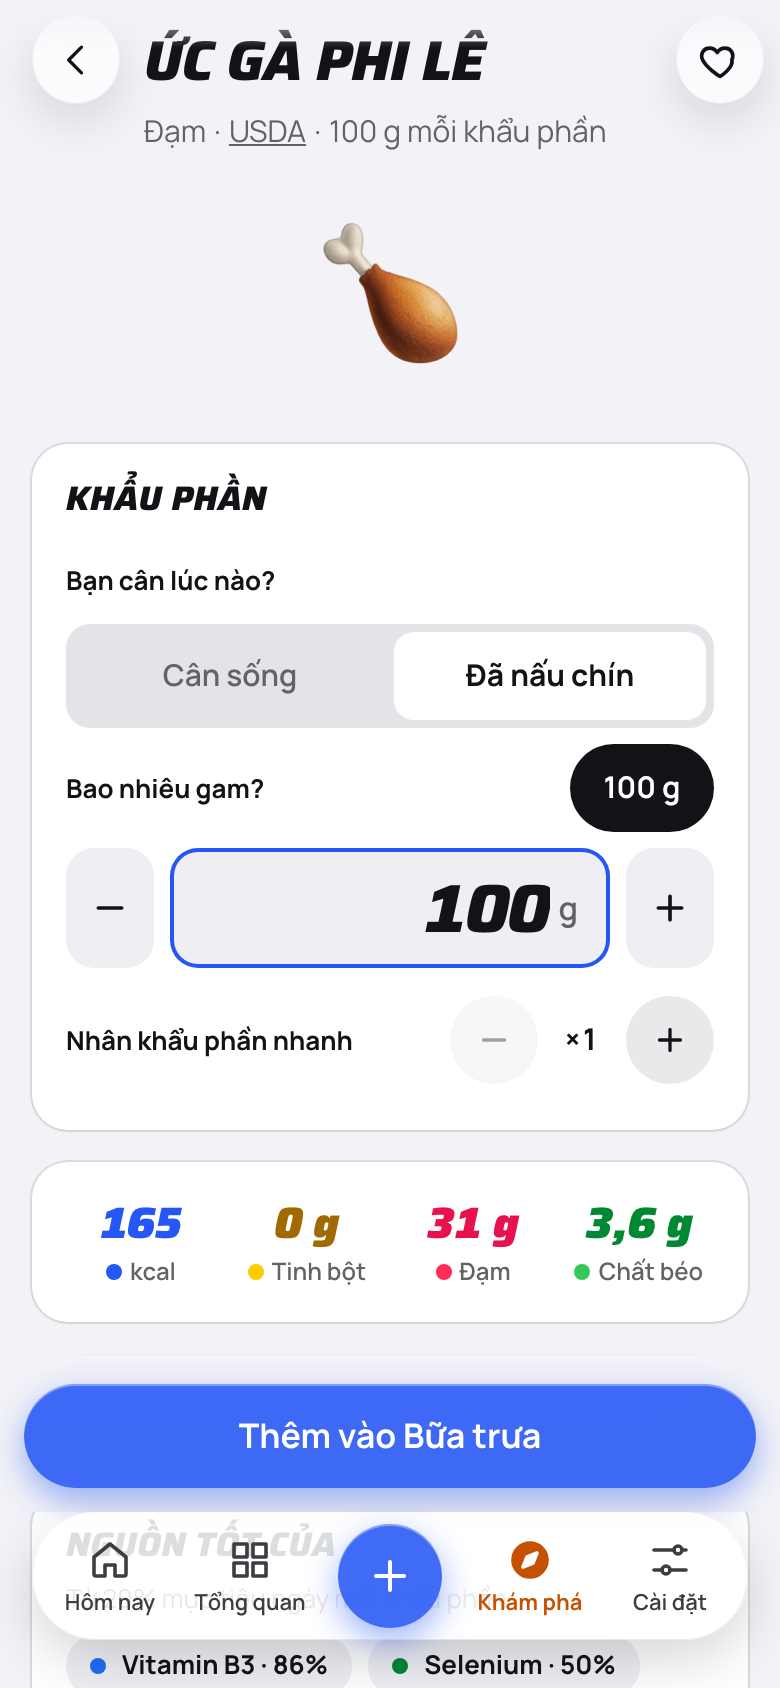
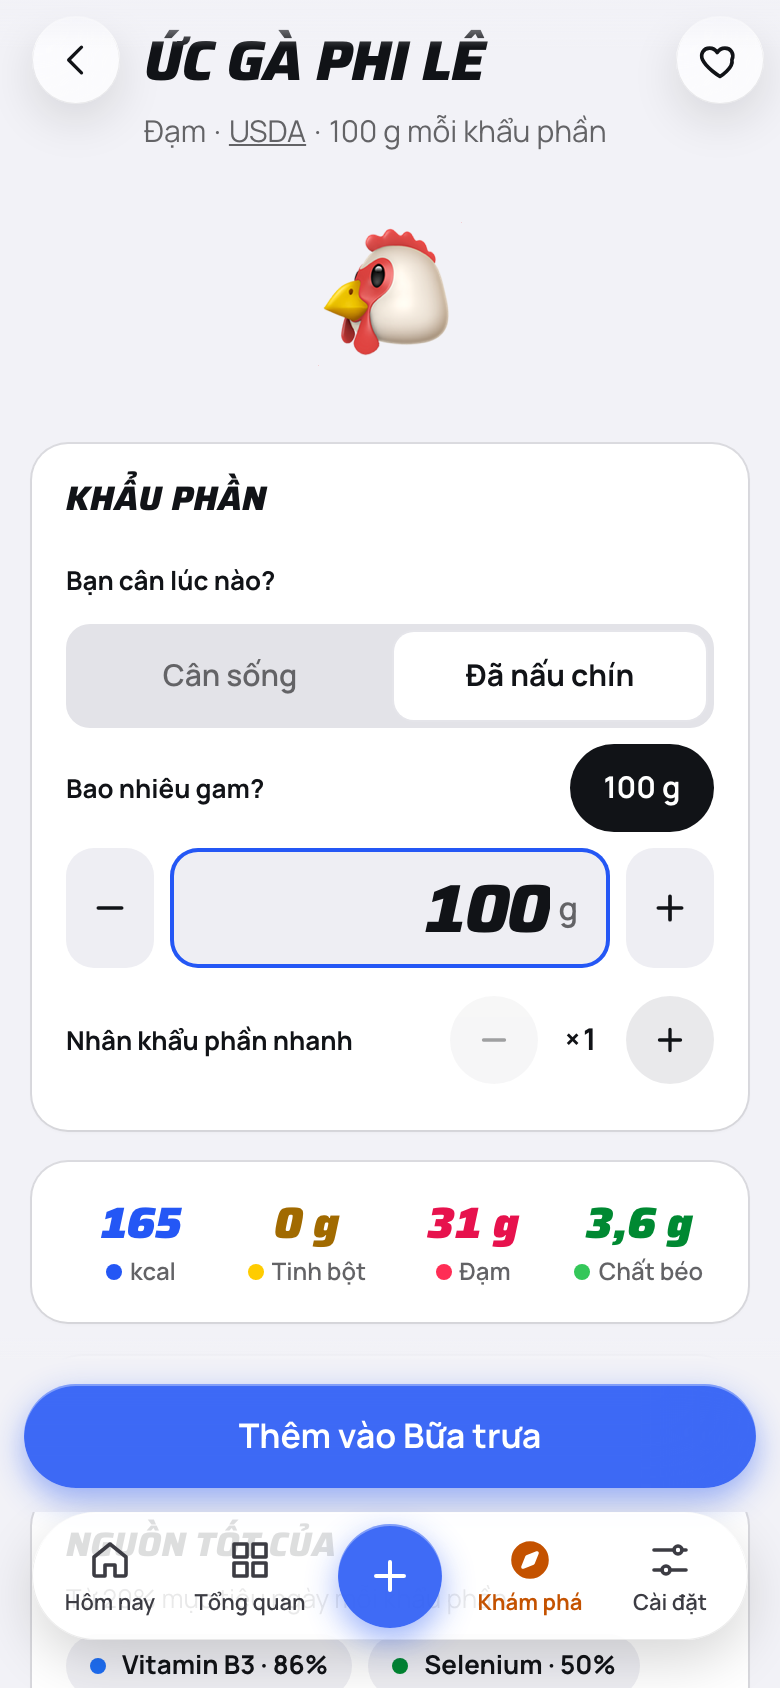
test(web): food_emoji: the food page of Ức gà shows 🐔 now (chicken by cut); screenshots at 390 and 1440 retaken

Changed region(s): [[0.4, 0.1232, 0.5846, 0.2156]]

diff --git a/apps/web/tests/probes/food_emoji.py b/apps/web/tests/probes/food_emoji.py
@@ -68,8 +68,9 @@ def run(browser, width, text):
     pg.wait_for_timeout(800)
     big = pg.locator(f"main {TILE}").first.bounding_box()
     check(big is not None and round(big["width"]) == round(112 * text / 100), f"{tag}: the food page has a 112 px tile, scaled with the text ({big})")
-    check(pg.locator(f"main {TILE}").first.get_attribute("data-emoji") == "🍗", "Ức gà is 🍗")
-    check("🍗" not in pg.locator("h1").first.inner_text(), "the emoji is not part of the page's text")
+    # Hao 23/10: chicken by cut, the breast is the bird, not a leg
+    check(pg.locator(f"main {TILE}").first.get_attribute("data-emoji") == "🐔", "Ức gà is 🐔")
+    check("🐔" not in pg.locator("h1").first.inner_text(), "the emoji is not part of the page's text")
     pg.screenshot(path=str(SHOTS / f"food-emoji-food-{tag}.png"))
     ctx.close()
 
